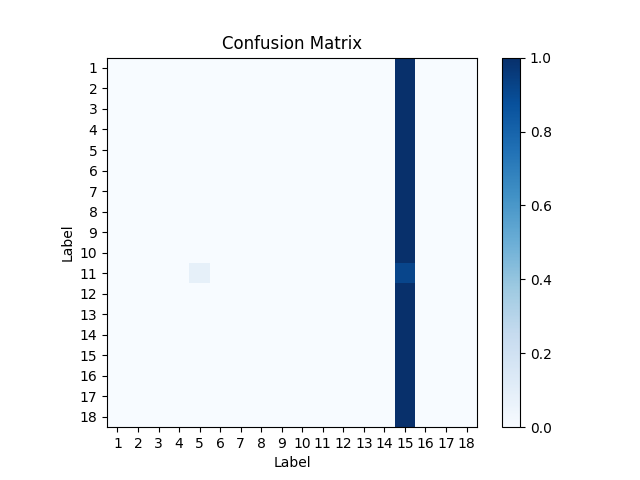
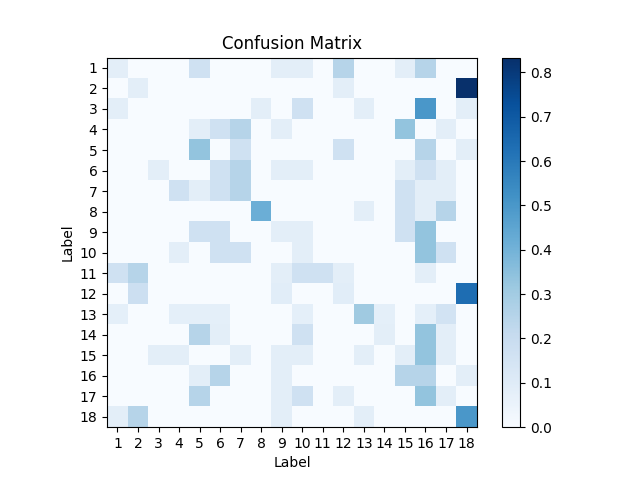
shaping

diff --git a/LAB3/src/model.py b/LAB3/src/model.py
@@ -219,7 +219,7 @@ class ConvNet:
             y = Y[:, j]
             p = P[:, j]
             ind = y.argmax()
-            py = (1/self.counts[ind]) * (1/18)
+            #py = (1/self.counts[ind]) * (1/18)
             loss -= np.log(y.T @ p) #* py
 
         loss /= Npts
@@ -356,7 +356,7 @@ class ConvNet:
         print(my_S == debug_S)
 
     def plotLabelDist(self):
-        """ Plots a bar diagram of the label distribution.
+        """ Plots label distribution.
         """
         import matplotlib.pyplot as plt
         plt.style.use('seaborn')
@@ -414,7 +414,7 @@ class ConvNet:
         :param true: true labels
         :param Nout: Nout
         """
-        pred = np.argmax(P, axis=0).reshape(1,-1)
+        pred = np.argmax(P, axis=0)
         CM = np.zeros((Nout, Nout))
         _, counts = np.unique(true, return_counts = True)
         for i in range(true.size):
@@ -507,7 +507,7 @@ class ConvNet:
         #self.debug()   # Take the Debug test
         #self.AnalyzeGradients(X_train, Y_train) # Analyze gradients.
 
-        """ Training
+        #""" Training
         print('=-=- Settings -=-= \n epochs: ', epochs, ' steps/epoch: , ', round(Npts/n_batches), ' learning rate: ' , p.eta, '\n')
 
         indices = [np.where(y_train == cl)[0] for cl in range(Nout)]

diff --git a/LAB3/src/experiment.py b/LAB3/src/experiment.py
@@ -15,7 +15,7 @@ params = Params(
     n1 = 20, n2  = 20,
     k1 = 5, k2  = 3,
     eta  = 0.001, roh = 0.9,
-    epochs = 130, n_batches = 108)
+    epochs = 3, n_batches = 108)
 cnn = ConvNet()
 
 #=-=-=-=-=-=-=
